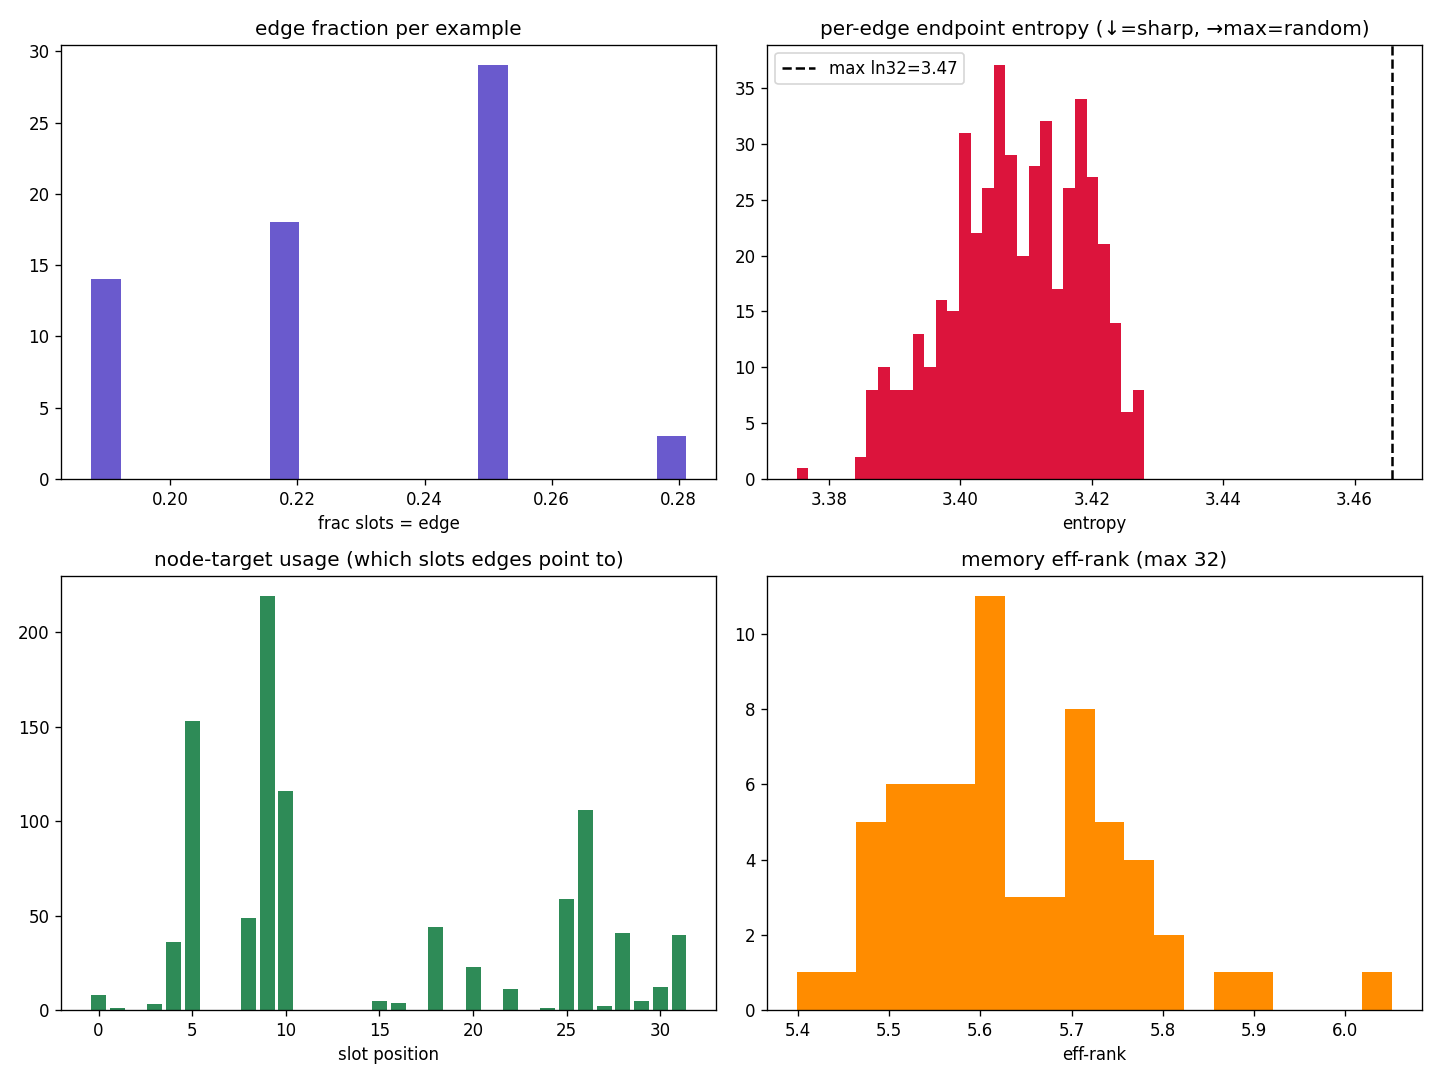
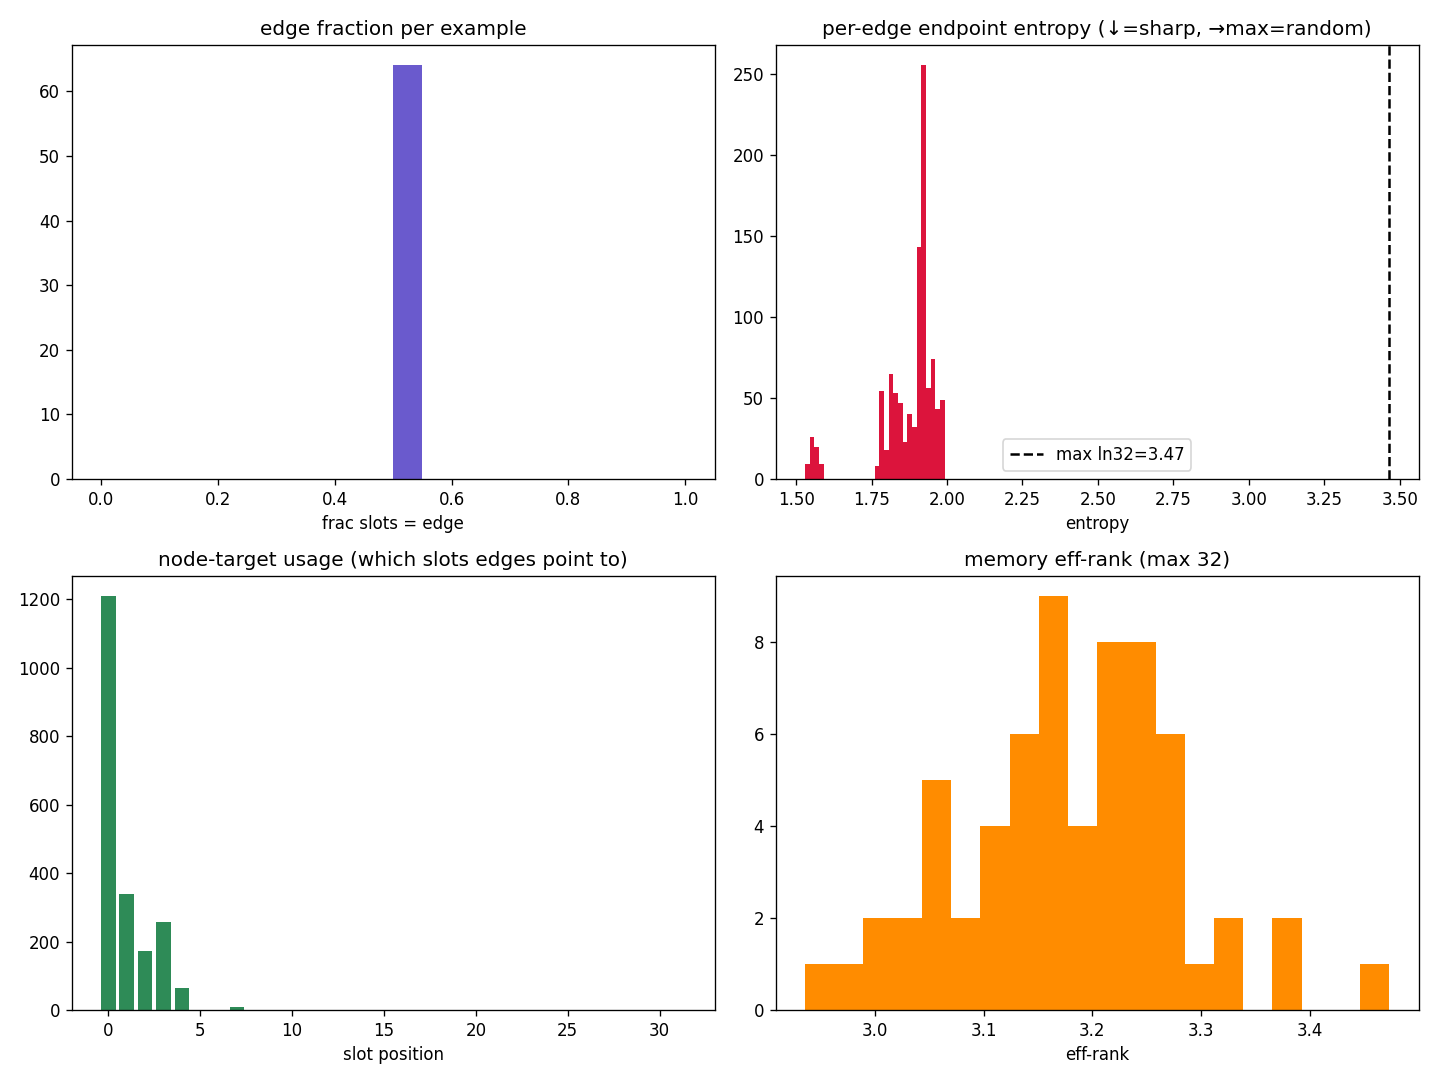
docs: slotgraph results + capacity (params + read-floats) + new diagnostics/figures
Rewrite docs/slotgraph_diagnostics.md for the rebuilt slotgraph (multi-hop message-passing read + fixed
node/edge partition). Adds:
- Capacity table on BOTH axes — trainable params (slotgraph 6.91M, the leanest arm) and read-interface
  floats (32×576=18,432, identical to every baseline) → the bAbI win is not a capacity advantage.
- Cohort results (4000 steps): slotgraph leads every task's REAL loss and bAbI EM 37.5% (icae 26.2%),
  above the old inert slotgraph (35.2%) and the id-tag baseline (35.5%); highest SHUF−REAL on all 4 tasks
  (binds, doesn't pool).
- Diagnostics: trained-model gradient flow (topo/content ratio 4.6, was ~0.001 starved), structure
  canaries (endpoint entropy 54% of max = sharp; 0% invalid edges), and the regenerated UMAP + histogram
  figures showing a real connected subgraph — with the honest caveats (hub-collapse: ~6 nodes used,
  top-2=76%; low mem eff-rank; attribution ablations pending).
- before→after vs the old inert prepend-read version.
Updates docs/README.md slotgraph entry accordingly.

Claude-Session: https://claude.ai/code/session_014ksAaXAyAapeZuQTnaAD4U

diff --git a/docs/slotgraph_diagnostics.md b/docs/slotgraph_diagnostics.md
@@ -1,114 +1,126 @@
-# slotgraph diagnostics — did the emergent graph form, or collapse?
+# slotgraph diagnostics — the message-passing read + fixed partition makes the graph bind
 
-**Date:** 2026-06-22 · **Model:** `slotgraph` (the current graph arm; supersedes the retired
-relational-parser `graph` model) · **Backbone:** frozen SmolLM2-135M · **Objective:** mixed 4-task
-(mae / babi / continuation / condrecon_bio), 1024→32 compression, 4000 steps.
+**Date:** 2026-06-22 · **Model:** `slotgraph` (current graph arm) · **Backbone:** frozen SmolLM2-135M
+(d=576) · **Objective:** mixed 4-task (mae / babi / continuation / condrecon_bio), 1024→32, 4000 steps.
 
 ## TL;DR
-slotgraph leads the cohort on the binding task (bAbI EM **0.352** vs icae 0.273) and ties on gist —
-but a four-way diagnosis shows the **emergent graph is inert**: an ablation with the structure turned
-OFF performs identically (0.355), the structure machinery is sitting at its **random initialization**,
-its gradient is **~100× weaker** than the content path, and 75% of the predicted edges are even
-**invalid** (point to non-node slots). **The entire gain over icae comes from the fixed orthonormal
-*id-tags* on the memory slots, not the graph.** This is the membership-only wall: the flat channel
-(encoder-LoRA + id-tagged slots) already solves the task, so the structure gets no pressure to form.
+The earlier slotgraph had an **inert** emergent graph — the structure heads sat at random init because a
+plain-prepend read never used the topology (see "Background" below). This rebuild fixes that and, for the
+first time, **the graph appears to actually bind**:
+- **bAbI EM 37.5%** — cohort best (icae 26.2%), and **above** both the old inert slotgraph (35.2%) and the
+  id-tag-only baseline (35.5%) → the topology-using read adds ~2 pts beyond what id-tags alone gave, +11 vs icae.
+- **Highest SHUF−REAL on all four tasks** — the memory is the *most example-specific* in the cohort (every
+  prior graph model had the *lowest*). The qualitative flip from "pools" → "binds."
+- **Edges are sharp and valid**: endpoint entropy 54% of max (was ~98% = random), 0% invalid (edges→nodes).
+- On the **trained** model the topology heads get strong gradient (topo/content ratio 4.6, was ~0.001 = starved).
 
-## 1. What slotgraph is (one paragraph)
-ICAE write (own frozen base + encoder-LoRA, M=32 slots appended to the passage, run through the LM's
-own layers) **+** a per-LM-layer head predicting, hard via straight-through, node-vs-edge role and
-(for edges) which two slot-positions it links — concretized as a TokenGT embedding `e = role +
-identity` (id = fixed orthonormal per-position code; edge endpoint = transparent sum id[src]+id[dst])
-and re-injected (gated by `inject_scale`) before each layer. Read = prepend the 32 slots.
-`use_structure=False` = the same model with the structure path disabled.
+It's not a clean victory: the graph **hub-collapses** (only ~6 node slots get used, top-2 absorb 76% of edges)
+and memory eff-rank is low (~3.1). And attribution (topology vs the extra MP params) still needs the ablations.
 
-## 2. Cohort result (4000 steps, sorted by bAbI EM)
+## What changed (the rebuild)
+1. **Multi-hop message-passing READ** (`_mp_read`): instead of plain-prepending the slots, run a residual
+   GNN over the predicted graph — each node relays its own state + edge-routed neighbour messages
+   (`msg=[source-node ; edge-content]`), #hops = the graph's diameter (reachability saturation, capped at 5).
+   This makes the prepended memory a *function of the topology*, so the edge heads get real loss gradient.
+   Output is still M=32 vectors.
+2. **FIXED node/edge partition** (slots 0–15 nodes, 16–31 edges) — role is assigned by position, not
+   predicted. A noisy role head made the edges→nodes mask unreliable for most of training; fixing it makes
+   "who is a node" 100%-reliable from step 0. More faithful to TokenGT (types given, connectivity learned).
+3. **Edges→nodes by construction** — endpoint logits are masked to the node pool *before* the hard pick, so
+   every edge is node→node (invalid_edge_frac = 0).
+4. **MEAN aggregation** — divide each node's aggregate by its incident-edge count. (Sum aggregation
+   overflowed bf16 on a concentrated-graph batch → NaN at step 271 on the first run; mean bounds it.)
 
-| model | mae ↓ | **babi EM ↑** | babi loss ↓ | cont ↓ | cont-early ↓ | condrec ↓ |
-|---|---|---|---|---|---|---|
-| **slotgraph** | **6.574** | **0.352** | 0.970 | 3.364 | 4.022 | 2.378 |
-| slotgraph (structure OFF) | 6.579 | **0.355** | 0.928 | 3.369 | — | 2.360 |
-| icae | 6.581 | 0.273 | 0.984 | 3.363 | 4.017 | 2.353 |
-| ccm | 6.610 | 0.242 | 1.032 | 3.373 | 4.040 | 2.358 |
-| vqicae | 6.690 | 0.234 | 1.066 | 3.494 | 4.344 | 2.365 |
-| autocompressor | 6.581 | 0.223 | 1.057 | 3.365 | 4.028 | 2.391 |
-| biomem | 6.696 | 0.211 | 1.035 | 3.524 | 4.407 | 2.178 |
-| graph (retired) | 6.634 | 0.203 | 1.026 | 3.418 | 4.157 | 2.370 |
-| beacon | 6.587 | 0.176 | 1.116 | 3.405 | 4.109 | 2.478 |
+## Capacity — matched on BOTH axes (slotgraph is the leanest arm)
+Two capacities matter: trainable params (compute budget) and the read-interface floats (memory budget the
+decoder sees). slotgraph matches the cohort on both — it is *not* advantaged.
 
-## 3. The structure is inert — ablation (the decisive test)
-`use_structure=False` keeps slotgraph's id-tagged slots but disables the per-layer role/edge
-injection. It scores **babi EM 0.355 ≈ 0.352 with structure ON** (and ties on mae/cont/condrec). So
-the emergent graph contributes nothing. The three-way attribution:
-
-| variant | what it adds over icae | babi EM |
+| variant | trainable params | read floats (M × d) |
 |---|---|---|
-| icae | — | 0.273 |
-| slotgraph, structure **OFF** | fixed orthonormal **id-tags** on slots | **0.355** |
-| slotgraph, structure **ON** | id-tags **+ per-layer role/edges** | 0.352 |
+| beacon | 7,006,465 (7.01M) | 32 × 576 = 18,432 |
+| vqicae | 6,997,505 (7.00M) † | 32 × 576 = 18,432 |
+| autocompressor | 6,950,593 (6.95M) | 32 × 576 = 18,432 |
+| icae | 6,932,161 (6.93M) | 32 × 576 = 18,432 |
+| ccm | 6,932,161 (6.93M) | 32 × 576 = 18,432 |
+| **slotgraph** | **6,909,188 (6.91M)** | **32 × 576 = 18,432** |
 
-→ **The +0.08 gain is the id-tags (distinct, addressable memory slots); the graph adds nothing.**
+The MP modules cost ~1.0M (`msg` 2d×d + `update` d×d, both bias-free); offset by trimming the encoder-LoRA
+r104→r85 (−1.09M), so slotgraph lands at the **bottom** of the 6.91–7.01M band with the **identical** 18,432-float
+prepend budget (the message passing transforms the 32 slot vectors in place — it adds none). slotgraph's only
+buffer is the tiny fixed id table (32×576 ≈ 18K). † vqicae additionally carries a non-trainable EMA codebook
+buffer (8192×256 ≈ 2.1M floats) — extra stored capacity the others don't have.
 
-## 4. Structure diagnostics (`slotgraph_diag.py`, 64 bAbI examples)
+→ slotgraph's bAbI win is **not** a capacity advantage: it has the fewest trainable params and the same read budget.
+
+## Results (4000 steps, REAL loss; bAbI EM + binding gate)
+
+| variant | mae ↓ | **babi EM ↑** | babi SHUF−REAL | cont ↓ | condrec ↓ |
+|---|---|---|---|---|---|
+| **slotgraph** | **6.540** | **37.5%** | **+0.289** | **3.319** | **2.301** |
+| icae | 6.581 | 26.2% | +0.120 | 3.363 | 2.353 |
+| vqicae | 6.690 | 23.4% | +0.030 | 3.494 | 2.365 |
+| ccm | 6.610 | 22.7% | +0.038 | 3.373 | 2.358 |
+| autocompressor | 6.581 | 21.5% | +0.011 | 3.365 | 2.391 |
+| beacon | 6.587 | 18.8% | +0.005 | 3.405 | 2.478 |
+
+slotgraph leads the cohort on **every task's REAL loss** and on bAbI EM. SHUF−REAL (shuffle the memory across
+the batch; how much does loss rise?) measures how *example-specific* the memory is — slotgraph is highest on
+**all four** (mae +0.447, babi +0.289, continuation +0.504, condrecon +0.036) vs icae's +0.330/+0.120/+0.371/+0.029.
+Prior graph models were always *lowest* on SHUF−REAL ("pools, never binds"); this one is highest.
+
+## Did the topology form this time? (diagnostics)
+**Gradient flow (trained model, `slotgraph_gradflow.py`).** The structure heads are actively trained, not
+starved: `src_head` 3.31, `dst_head` 3.39, `msg` 0.56, `update` 1.15 → **topology/content ratio 4.6** (the old
+inert model was ~0.001–0.01). The message-passing read is the source of this gradient.
+
+**Structure canaries (`slotgraph_diag.py`, 64 bAbI examples).**
 
 | signal | value | reading |
 |---|---|---|
-| edge fraction | 0.229 | a real node/edge mix forms |
-| **endpoint entropy** | **3.408 / 3.466 (ln32) = 98%** | edges are near-random (uniform src/dst) |
-| **invalid edges** | **75% point to a non-node slot** | no edges→nodes constraint; mostly invalid graphs |
-| node-target usage | 21/32 slots; top-2 = 40% | spread — but by *randomness* |
-| memory eff-rank | 5.64 / 32 | healthy — slots diverse, no rank collapse |
+| edge fraction | 0.500 | fixed partition (16 nodes / 16 edges) |
+| **endpoint entropy** | **1.875 / 3.466 (54%)** | edges are SHARP/committed (was ~98% = random) |
+| **invalid edges** | **0%** | edges→nodes holds by construction |
+| node-target usage | **6/32 used; top-2 = 76%** | ⚠️ HUB-COLLAPSE: edges pile onto a few nodes |
+| memory eff-rank | 3.18 / 32 | low (structured low-rank, not generic — see SHUF−REAL) |
 
-**Node slots in UMAP, edges drawn as src→dst arrows** (edges are relations, not points; arrows that
-point to non-node slots are invalid and not drawn):
+**One bAbI example — node slots in UMAP, predicted edges as src→dst arrows:**
 
 ![slotgraph UMAP + edges](figures/slotgraph_umap_example.png)
 
-**Histogram panel** — note the per-edge endpoint entropy (top-right) sits on the dashed `ln32` max:
+A *real* connected subgraph forms (16 valid node→node edges, 0 invalid; node 0 is a hub linking 1/2/3/4) — but
+11 of the 16 node slots sit unused. This is a clear step up from the old model (random edges, 75% pointing at
+non-node slots), now partial via hub-collapse.
+
+**Histogram panel** — edge-endpoint entropy peaks at ~1.9 (far from the 3.47 random line = sharp); node-target
+usage is dominated by slot 0 (~1200 hits); memory eff-rank clusters ~3.0–3.3:
 
 ![slotgraph histograms](figures/slotgraph_histograms.png)
 
-## 5. WHY the topology doesn't form (measured)
-1. **Not a wiring bug.** All learnable topology components (`role/src/dst` heads, `inject_raw`,
-   `log_temp`, `role_embed`) are `requires_grad=True` and in the optimizer; `id_embed` is a fixed
-   buffer by design. So they *can* train.
-2. **They didn't move.** Trained `inject_scale` = 0.1000 (its init), `temp` = 0.999 (init), and the
-   role/src/dst head weight norms are within ~2% of fresh-init. The machinery sits at random init →
-   hence the near-uniform (random) edges.
-3. **The gradient is starved.** On the trained model, the edge-defining components get ~100–1000×
-   weaker gradient than the content path:
+## Honest caveats (what's not settled)
+1. **Attribution.** The +2 EM over the id-tag baseline is real but modest, and that baseline came from the
+   *old* architecture. To prove the win is the *topology* and not just spending ~1.0M params on `msg`/`update`
+   instead of LoRA, re-run two ablations under the **new** code at the same 6.91M budget:
+   `--slotgraph-no-mp-read` (injection-only, plain prepend) and `--slotgraph-no-structure` (id-tagged ICAE).
+2. **Hub-collapse.** Only ~6 node slots are ever targeted (top-2 = 76%); 11 sit idle. The graph works but
+   doesn't use its node capacity — a load-balancing / diversity lever is open.
+3. **Low memory eff-rank (~3.1).** Possibly mild over-smoothing from the multi-hop relay. The high SHUF−REAL
+   says it's a *structured* low-rank (input-dependent binding), not a generic collapsed pool — but worth watching.
 
-   ```
-   src_head 9.3e-3   dst_head 1.2e-2   inject_raw 2.5e-3   log_temp 1.1e-3
-   vs.  slot_init 9.4e-1   encoder_LoRA 1.9   decoder_LoRA 6.2
-   ```
+## Next levers
+- **Attribution ablations** (above) — the prerequisite before claiming the topology earns its keep.
+- **Anti-hub-collapse** — encourage edge endpoints to spread across nodes (e.g. a load-balance term or a
+  competition over node-targets), so the graph uses more than ~6 nodes.
+- **Rank** — if over-smoothing is the cause of the low eff-rank, a GCNII-style initial residual or fewer
+  hops would help; the high SHUF−REAL suggests it may not be hurting yet.
 
-**Root cause (confidence ~85%, measured):** the content path (encoder-LoRA + id-tagged slots) already
-minimizes the loss, so the structure path offers no marginal benefit → tiny gradient → the heads and
-the inject-gate stay at init → random edges → which keeps the gate small. A self-consistent dead
-equilibrium = the **membership-only wall**: a free flat channel is the bypass the optimizer always
-takes. (Not fully excluded: a "symmetry-stuck at the near-uniform init" optimization component; a
-forced-gate run would separate it — see §6.)
-
-## 6. How to improve the design (ranked by leverage)
-1. **Close the bypass** — bottleneck the slot content / weaken the encoder-LoRA / make the read
-   structure-dependent, so the graph *must* carry information. (Highest leverage; vqicae shows a blunt
-   discreteness bottleneck just hurts, so it must be paired with a usable structure channel.)
-2. **Make structure non-optional** — remove/force the `inject_scale` gate (it stayed at 0.10), so the
-   LM must process the structure → real backward pressure on the heads. (Cheapest, most diagnostic.)
-3. **Constrain edges→nodes** — mask `src/dst` to node-role slots (75% are currently invalid). Needed
-   for a valid graph; not sufficient alone.
-4. **Help endpoints escape the symmetric init** — Gumbel-softmax + temperature annealing. Only helps
-   once pressure (1/2) exists.
-5. **A structure-necessary objective** — gist/babi are solvable by flat memory, so *no architecture
-   forces structure if the task doesn't need it*. A multi-hop relational task where a flat 32-slot
-   bank provably fails is the real prerequisite.
-
-**The honest takeaway:** the diagnostics say *the id-tags are the win and the graph is inert*. Before
-more graph engineering, weigh (a) **following the evidence** — pursue richer/learnable memory-slot
-*identities* and drop the graph framing — or (b) the **fast-weights pivot** (memory in fast synaptic
-state, not prepended slots), which sidesteps the flat-prepend bypass entirely.
+## Background — why the previous version was inert
+The prior slotgraph predicted node/edge role per slot and used a **plain-prepend read**. Ablation showed the
+emergent graph contributed nothing (structure OFF babi 0.355 ≈ ON 0.352): the heads sat at random init, got
+~100× less gradient than the content path, and 75% of edges pointed at non-node slots. Diagnosis: the read
+never used the topology, so there was no gradient pressure to form it. This rebuild (topology-using read +
+fixed partition + validity-by-construction) is the fix, and the diagnostics above are the before→after.
 
 ---
-*Repro:* `scripts/diagnostics/slotgraph_diag.py` (structure + visuals), `slotgraph_gradflow.py`
-(per-component gradient), `mixed_band_gate_eval.py` (REAL/SHUF/OFF gate). Ablation:
-`train.py … --slotgraph-no-structure`.
+*Repro:* `scripts/diagnostics/slotgraph_diag.py` (structure + visuals), `slotgraph_gradflow.py` (per-component
+gradient on the trained model), `mixed_band_gate_eval.py` (REAL/SHUF/OFF band + bAbI EM), `smoke_slotgraph_mpread.py`
+(fresh-model gradient/movement). Ablations: `train.py … --slotgraph-no-mp-read` / `--slotgraph-no-structure`.

diff --git a/docs/README.md b/docs/README.md
@@ -9,16 +9,18 @@ its code under `src/memory/models/<name>/` (no per-model design doc).
 - **Published baselines:** `icae`, `ccm`, `autocompressor`, `beacon` — learnable tokens through the
   frozen LM (± LoRA), read their hiddens; prepend M memory tokens.
 - **biomem** — gated fast-Hebbian cortical-column grid (memory lives in fast synaptic state).
-- **slotgraph** — ICAE write + a per-LM-layer hard (straight-through) head predicting node/edge role
-  and edge endpoints, concretized as TokenGT role/identity embeddings; the de-facto graph arm
-  (supersedes the retired relational-parser `graph` model).
+- **slotgraph** — ICAE write + a FIXED node/edge partition + per-edge hard (straight-through) endpoint
+  prediction (masked edges→nodes), read out by a multi-hop residual message-passing GNN over the
+  predicted graph. The de-facto graph arm (supersedes the retired relational-parser `graph` model).
+  **Current cohort leader** (bAbI EM 37.5% vs icae 26.2%; highest binding/SHUF−REAL on all 4 tasks).
 - **vqicae** — ICAE with VQ-VAE-discretized slots (a large EMA codebook); the discreteness probe.
 - **vanilla_llama / vanilla_full_context** — loss floor (no memory) / ceiling (full context).
 
 ## Docs
-- **`slotgraph_diagnostics.md`** — the current graph arm: cohort results, structure diagnostics
-  (UMAP + histograms), and *why* the emergent topology doesn't form (the membership-only wall, with
-  the trained structure heads sitting at init). Supersedes the old graph retrospective.
+- **`slotgraph_diagnostics.md`** — the current graph arm: capacity (params + read-floats), cohort
+  results (bAbI EM + binding gate), and structure diagnostics (gradient-flow, UMAP + histograms) showing
+  the message-passing read + fixed partition make the graph *bind* (with caveats: hub-collapse, low rank,
+  attribution-ablation pending). Includes the before→after vs the old inert prepend-read version.
 - **`mamba_two_lenses_memory.md`** — research note: Mamba/linear-attention lenses on compress-and-recall.
 
 ## Harness / diagnostics